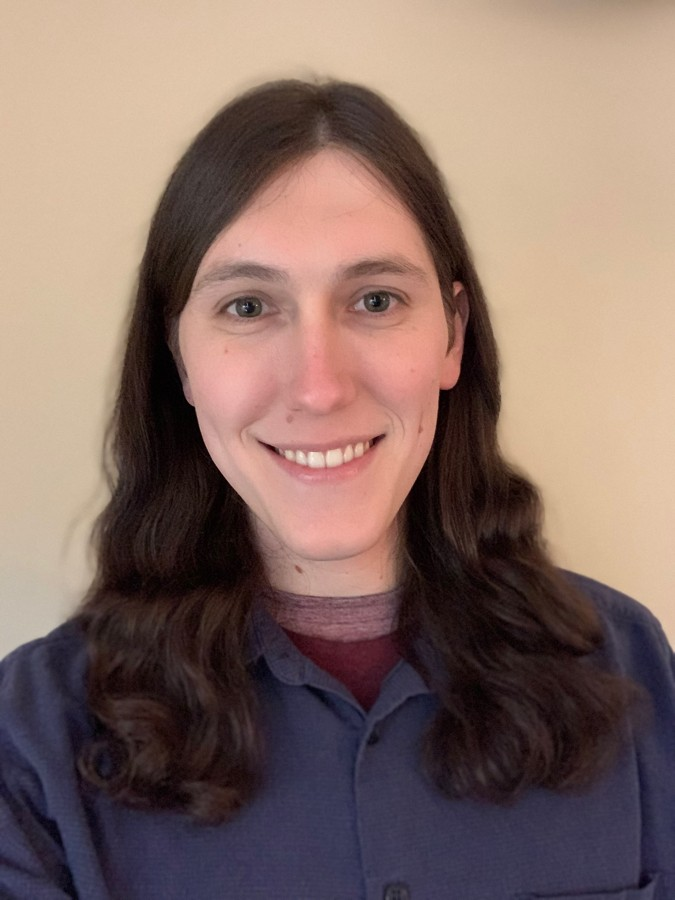
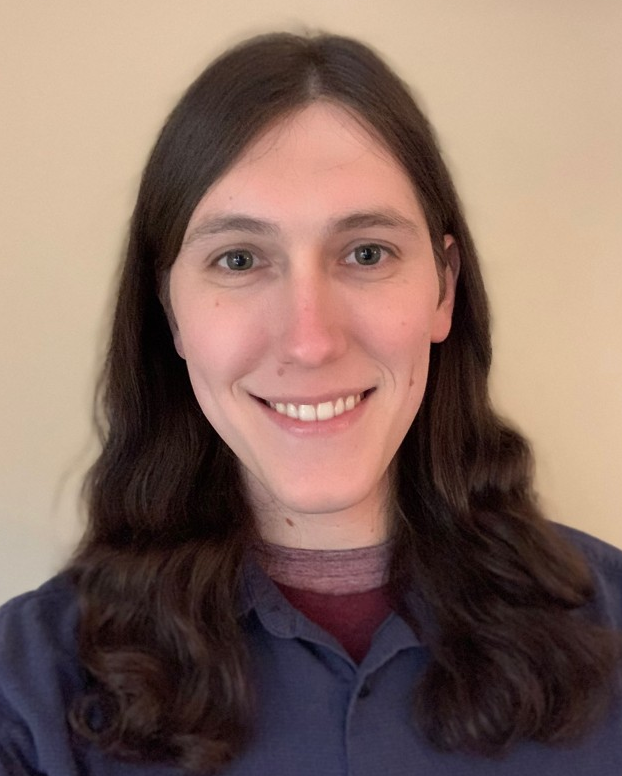
Update about section, formatting

diff --git a/index.html b/index.html
@@ -13,7 +13,7 @@
 
         <h1>Brice Veyna</h1>
 
-        <nav>
+        <nav id="navigation">
             <a href="#about">About</a>
             <a href="#work">Work</a>
             <a href="#contact">Contact</a>
@@ -25,11 +25,15 @@
 
         <section id="about">
 
-            <h2>About</h2>
+            <aside>
+
+                <h2>About</h2>
+
+            </aside>
 
             <figure>
 
-                <img src="./assets/images/Portrait.png" alt="Brice Veyna Portrait" height="500px">
+                <img src="./assets/images/Portrait.png" alt="Brice Veyna Portrait" height="450px">
     
             </figure>
     
@@ -51,11 +55,15 @@
 
         <section id="work">
 
-            <h2>Work</h2>
+            <aside>
+
+                <h2>Work</h2>
+
+            </aside>
 
             <figure class="card">
 
-                <header>Landing Page</header>
+                <h3>Landing Page</h3>
                 <a href=""><img src="" alt=""></a>
                 <p>HTML/CSS</p>
 
@@ -63,7 +71,7 @@
 
             <figure class="card">
 
-                <header>Horiseon - Accessibility</header>
+                <h3>Horiseon - Accessibility</h3>
                 <a href=""><img src="" alt=""></a>
                 <p>HTML/CSS</p>
 
@@ -71,7 +79,7 @@
 
             <figure class="card">
 
-                <header>Vivaldi Fan Page</header>
+                <h3>Vivaldi Fan Page</h3>
                 <a href=""><img src="" alt=""></a>
                 <p>HTML/CSS</p>
 
@@ -81,19 +89,21 @@
 
         <section id="contact">
 
-            <h2>Contact</h2>
+            <aside>
 
-            <label>Name: </label>
-            <input type="text">
+                <h2>Contact</h2>
 
-            <br/>
+            </aside>
 
-            <label>Email: </label>
-            <input type="text">
+            <nav id="contact-info">
 
-            <br/>
+                <a href="#">phone</a>
+                <a href="#">email</a>
+                <a href="https://www.linkedin.com/in/brice-veyna/">linkedin</a>
+                <a href="https://github.com/BriceVeyna">github</a>
+                <a href="#">twitter</a>
 
-            <input type="submit">
+            </nav>
 
         </section>
 

diff --git a/assets/css/styles.css b/assets/css/styles.css
@@ -1,5 +1,3 @@
-
-
 * {
     font-family: Arial, Helvetica, sans-serif;
 }
@@ -12,7 +10,7 @@ header {
     background-color: rgb(121,125,98);
 }
 
-nav {
+#navigation {
     display: block;
     position: fixed;
     overflow: hidden;
@@ -21,7 +19,7 @@ nav {
     background-image: linear-gradient(rgb(140, 110, 90),rgb(150,120,100),rgb(130, 100, 80));
 }
 
-nav a {
+#navigation a {
     display: block;
     float: right;
     text-align: center;
@@ -30,7 +28,41 @@ nav a {
     color: black;
 }
 
-nav a:hover {
+#navigation a:hover {
     background-color: rgb(109, 84, 68);
     color: bisque;
+}
+
+main {
+    width: 100%;
+    background-color: rgb(241,220,167);
+}
+
+#about {
+    display:flex;
+    position: relative;
+    top: 125px;
+}
+
+img {
+    border: solid gray 1px;
+    border-radius: 15px;
+}
+
+#work {
+    display:block;
+    position: relative;
+    top: 125px;
+}
+
+#contact {
+    display:block;
+    position: relative;
+    top: 125px;
+}
+
+footer {
+    position: relative;
+    top: 125px;
+    padding-bottom: 5px;
 }
